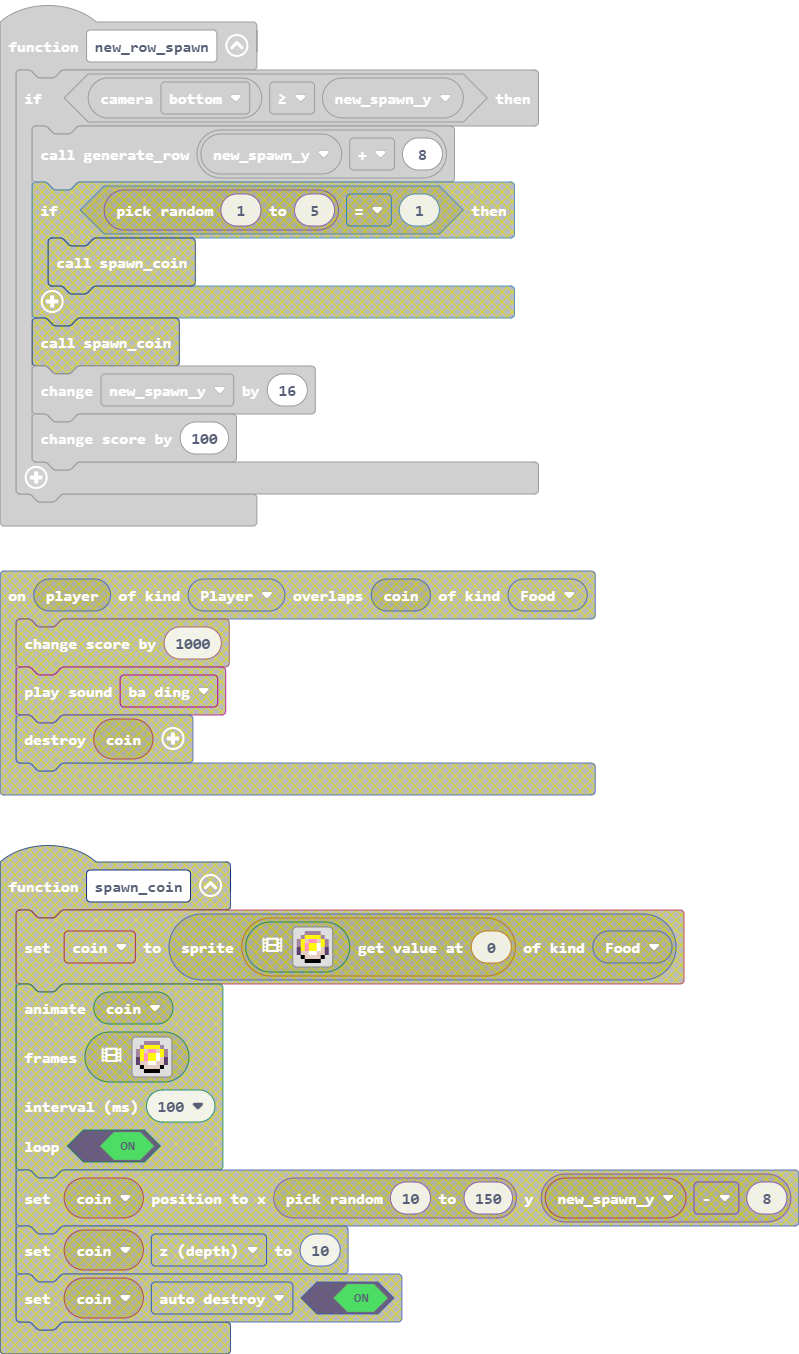
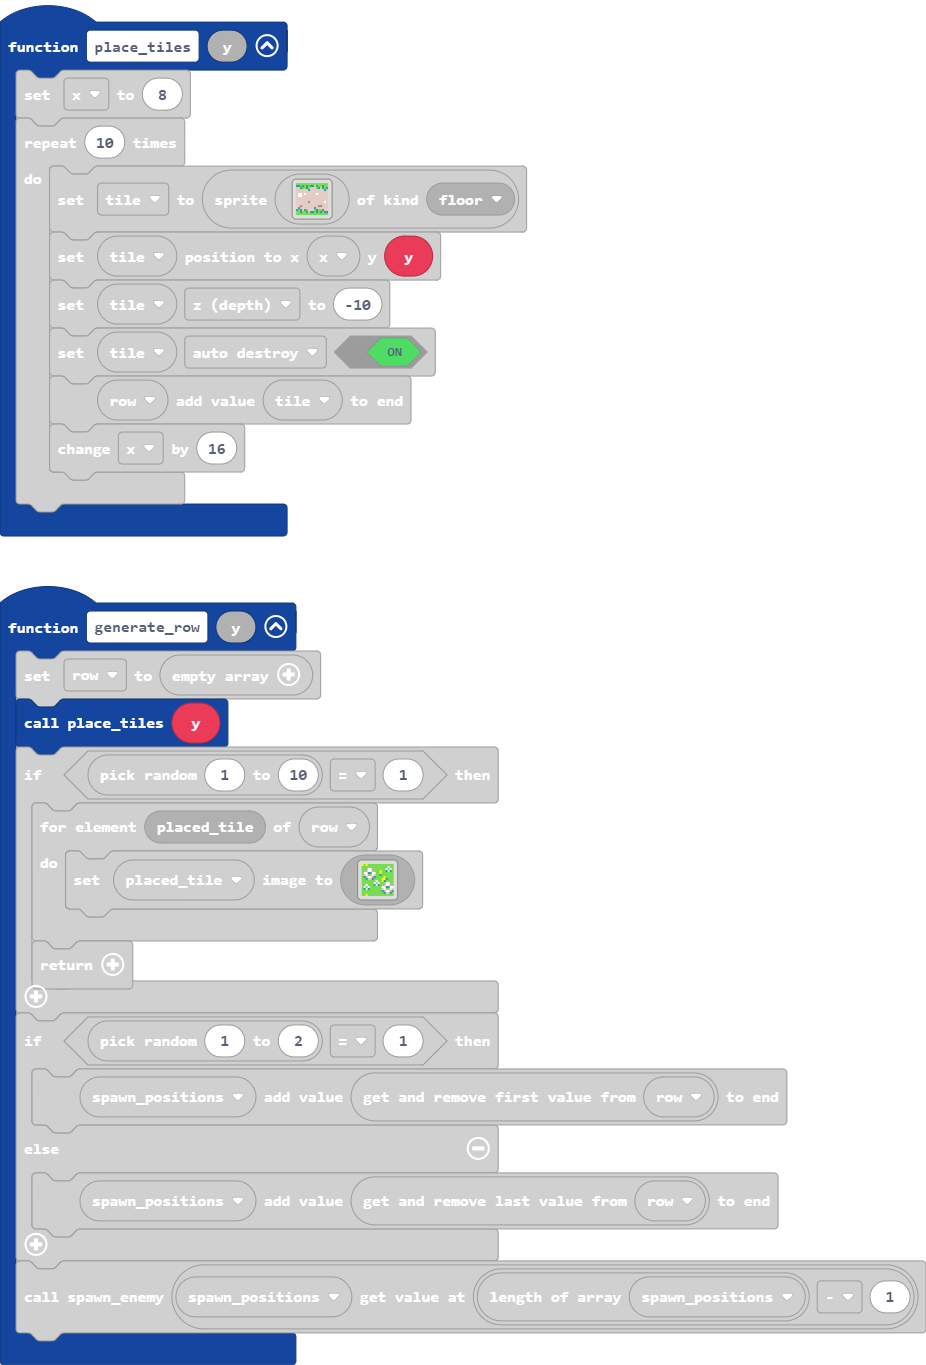
fixed y coord on tile placement

diff --git a/images.g.ts b/images.g.ts
@@ -22,44 +22,6 @@ namespace myImages {
 . . . . c b 5 5 5 5 b c . . . . 
 . . . . . f f f f f f . . . . . 
 `;
-            case "image4":
-            case "witch left":return img`
-. . . . . . . c c . . . . . . . 
-. . . . . . c 5 c . . . . . . . 
-. . . . c c 5 5 5 c c c . . . . 
-. . c c c c 5 5 5 5 c b c c . . 
-. c b b 5 b 5 5 5 5 b 5 b b c . 
-. c b 5 5 b b 5 5 b b 5 5 b c . 
-. . c 5 5 5 b b b b 5 5 5 f . . 
-. . . f 5 5 5 5 5 5 5 5 f f . . 
-. . . . f e e e f b e e f f . . 
-. . . . f e b b f 1 b f f f . . 
-. . . . f b b b b b b f f . . . 
-. . . . . f e e e e f e e . . . 
-. . . . . f 5 b b e b b e . . . 
-. . . . f 5 5 5 5 e b b e . . . 
-. . . . c b 5 5 5 5 e e . . . . 
-. . . . . f f f f f f . . . . . 
-`;
-            case "image5":
-            case "witch right":return img`
-. . . . . . . c c . . . . . . . 
-. . . . . . . c 5 c . . . . . . 
-. . . . c c c 5 5 5 c c . . . . 
-. . c c b c 5 5 5 5 c c c c . . 
-. c b b 5 b 5 5 5 5 b 5 b b c . 
-. c b 5 5 b b 5 5 b b 5 5 b c . 
-. . f 5 5 5 b b b b 5 5 5 c . . 
-. . f f 5 5 5 5 5 5 5 5 f . . . 
-. . f f e e b f e e e f . . . . 
-. . f f f b 1 f b b e f . . . . 
-. . . f f b b b b b b f . . . . 
-. . . e e f e e e e f . . . . . 
-. . . e b b e b b 5 f . . . . . 
-. . . e b b e 5 5 5 5 f . . . . 
-. . . . e e 5 5 5 5 b c . . . . 
-. . . . . f f f f f f . . . . . 
-`;
             case "image3":
             case "mushroom":return img`
 . . . . b b b b . . . . . . . . 
@@ -485,62 +447,6 @@ f f b b c b d d d d d d d c . .
 . . . e b b e 5 5 5 5 f . . . . 
 . . . . e e 5 5 5 5 b c . . . . 
 . . . . . f f f f f f . . . . . 
-`];
-            case "coin":
-            case "anim6":return [img`
-. . b b b b . . 
-. b 5 5 5 5 b . 
-b 5 d 3 3 d 5 b 
-b 5 3 5 5 1 5 b 
-c 5 3 5 5 1 d c 
-c d d 1 1 d d c 
-. f d d d d f . 
-. . f f f f . . 
-`, img`
-. . b b b . . . 
-. b 5 5 5 b . . 
-b 5 d 3 d 5 b . 
-b 5 3 5 1 5 b . 
-c 5 3 5 1 d c . 
-c 5 d 1 d d c . 
-. f d d d f . . 
-. . f f f . . . 
-`, img`
-. . . b b . . . 
-. . b 5 5 b . . 
-. b 5 d 1 5 b . 
-. b 5 3 1 5 b . 
-. c 5 3 1 d c . 
-. c 5 1 d d c . 
-. . f d d f . . 
-. . . f f . . . 
-`, img`
-. . . b b . . . 
-. . b 5 5 b . . 
-. . b 1 1 b . . 
-. . b 5 5 b . . 
-. . b d d b . . 
-. . c d d c . . 
-. . c 3 3 c . . 
-. . . f f . . . 
-`, img`
-. . . b b . . . 
-. . b 5 5 b . . 
-. b 5 1 d 5 b . 
-. b 5 1 3 5 b . 
-. c d 1 3 5 c . 
-. c d d 1 5 c . 
-. . f d d f . . 
-. . . f f . . . 
-`, img`
-. . . b b b . . 
-. . b 5 5 5 b . 
-. b 5 d 3 d 5 b 
-. b 5 1 5 3 5 b 
-. c d 1 5 3 5 c 
-. c d d 1 d 5 c 
-. . f d d d f . 
-. . . f f f . . 
 `];
         }
         return null;

diff --git a/main.ts b/main.ts
@@ -10,7 +10,7 @@ function new_row_spawn () {
 }
 function generate_row (y: number) {
     row = []
-    place_tiles()
+    place_tiles(y)
     if (randint(1, 10) == 1) {
         for (let placed_tile of row) {
             placed_tile.setImage(assets.tile`off path`)
@@ -36,7 +36,7 @@ controller.left.onEvent(ControllerButtonEvent.Pressed, function () {
         move(assets.animation`left`, -2, 0)
     })
 })
-function place_tiles () {
+function place_tiles (y: number) {
     x = 8
     for (let index = 0; index < 10; index++) {
         tile = sprites.create(assets.tile`path`, SpriteKind.floor)
